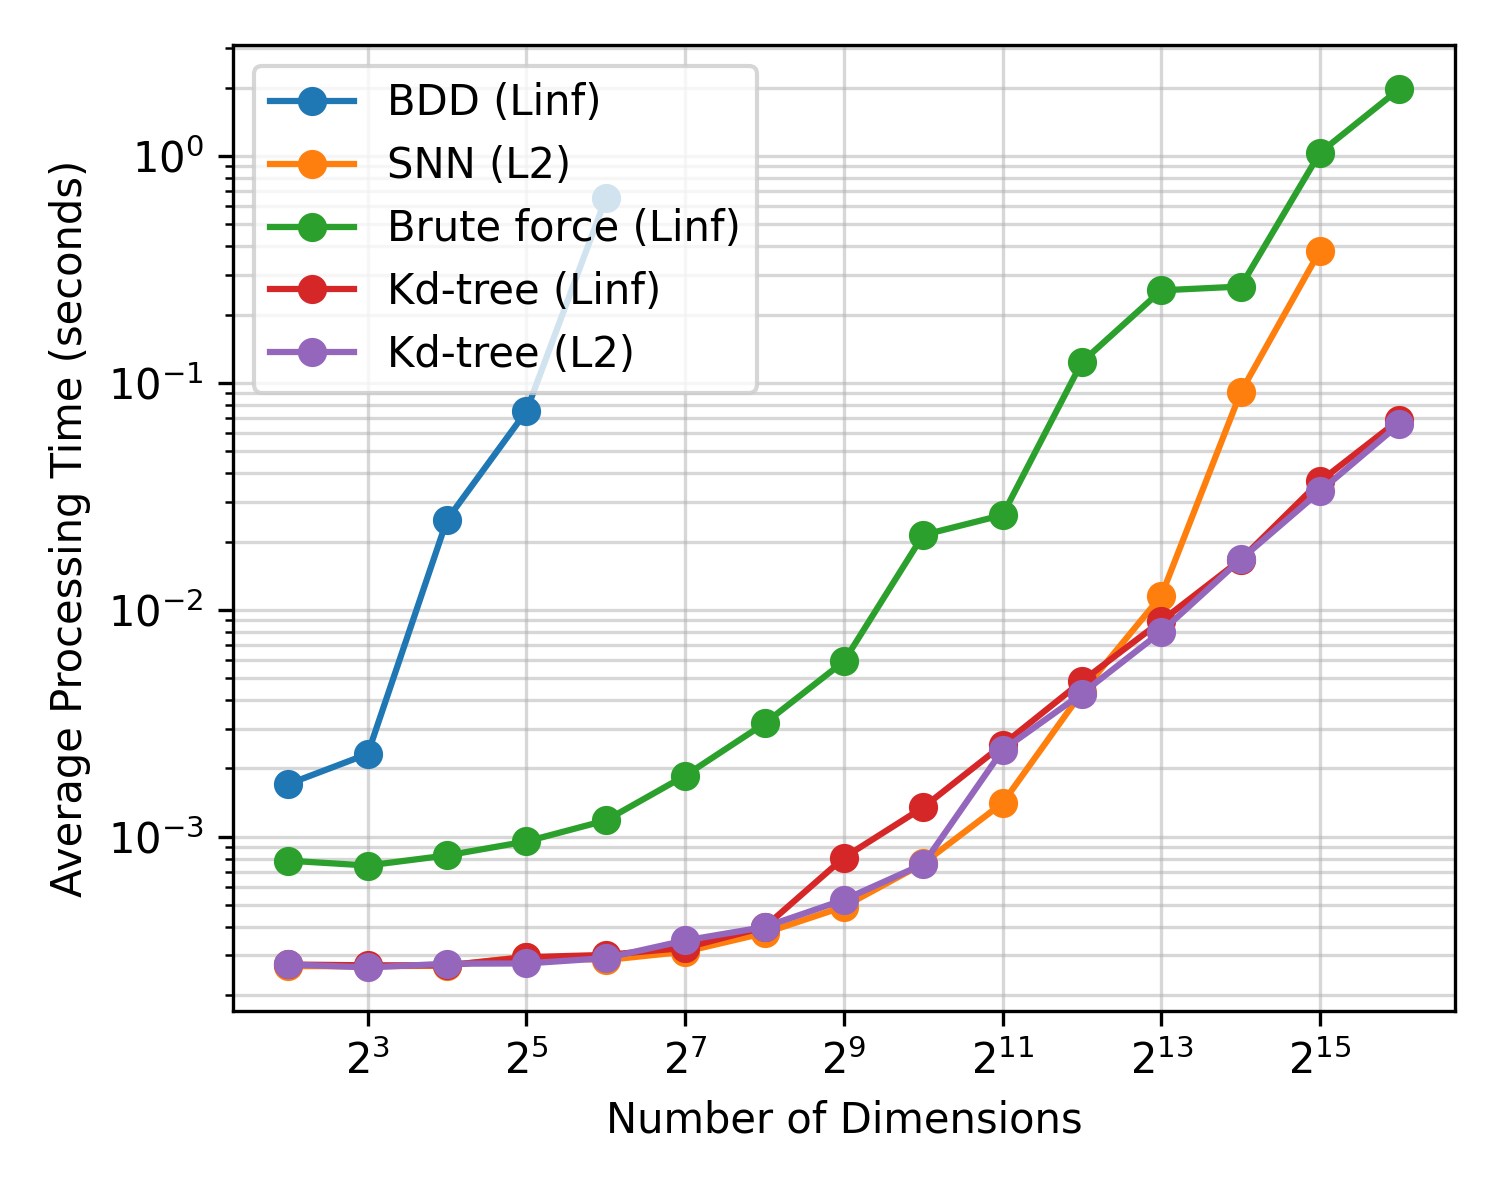
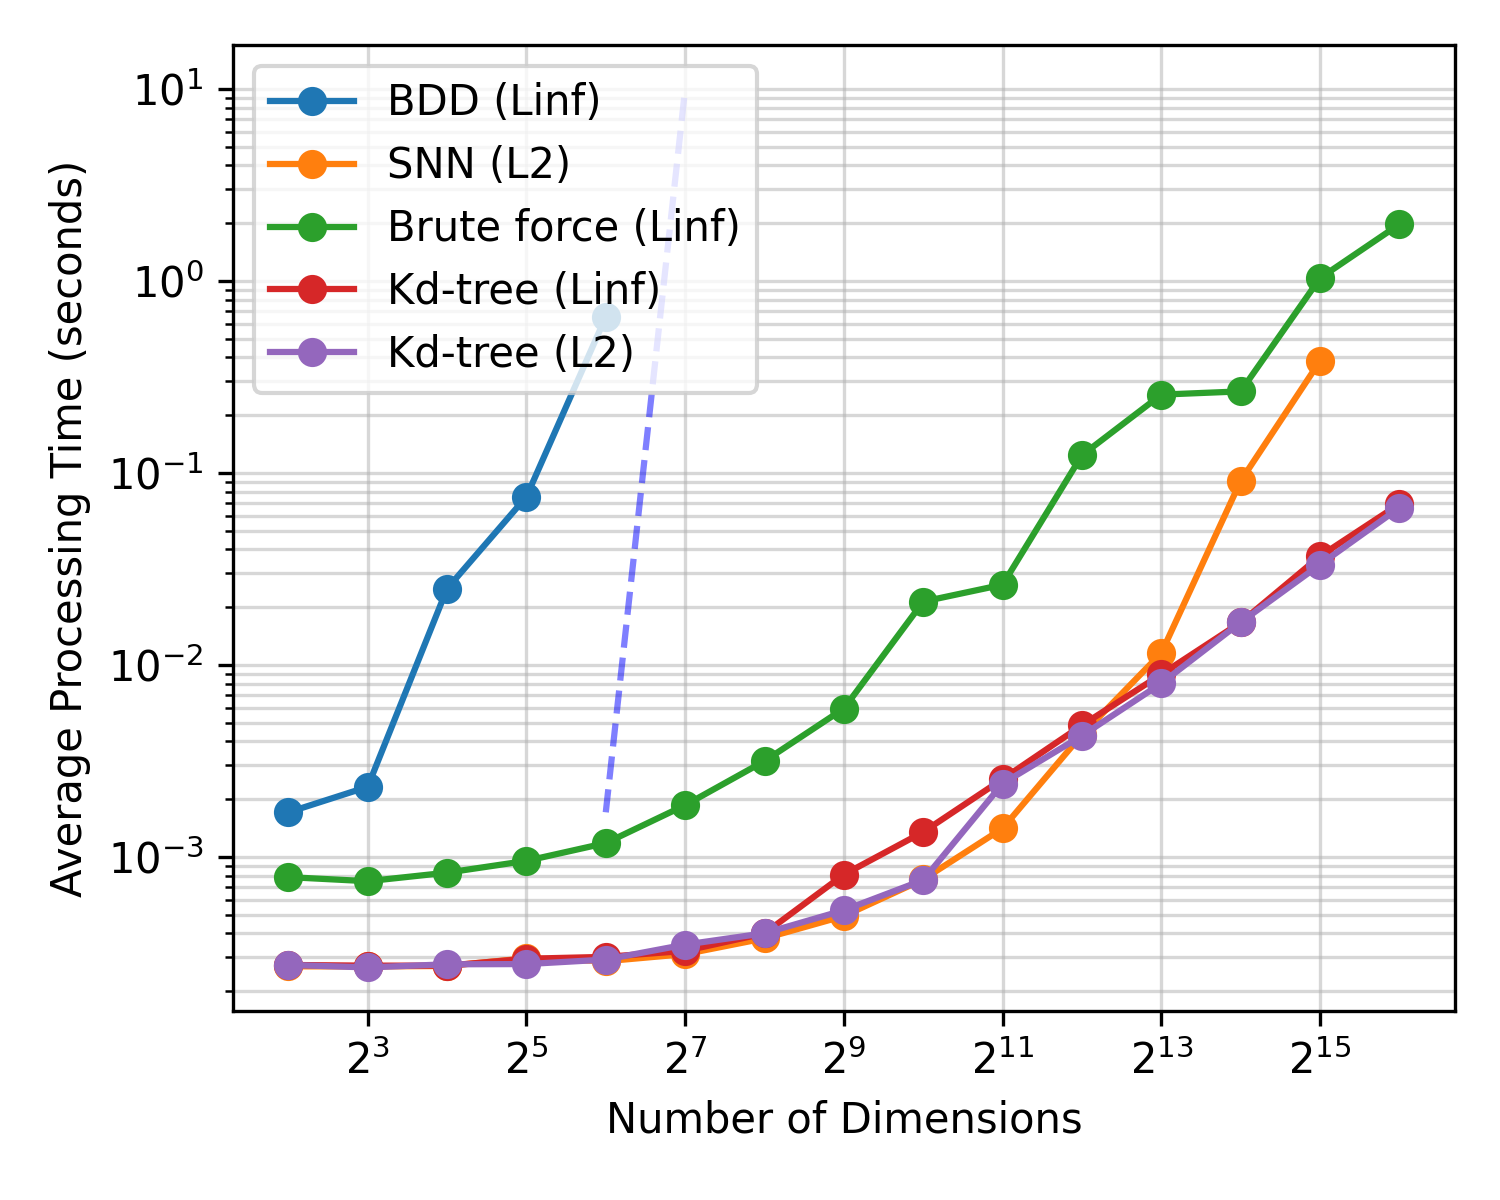
add dashed line to dimcomp?

diff --git a/results/dimcomp/plot.py b/results/dimcomp/plot.py
@@ -46,6 +46,14 @@ for method in methods:
         "bf": "Brute force (Linf)",
     }
     plt.plot(dimensions, avg_times, marker='o', label=method_displaynames[method])
+    if method == 'bdd':
+        last_y_bdd = avg_times[np.where(method == "bdd")[0]][-1]
+        plt.plot([2**6, 2**7], [last_y_bdd, 10], 
+                 color='blue', linestyle='--', alpha=0.5)
+    if method == 'snn':
+        last_y_snn = avg_times[np.where(method == "l2-snn")[0]][-1]
+        plt.plot([2**15, 2**16], [last_y_snn, 10], 
+                 color='orange', linestyle='--', alpha=0.5)
 
 plt.xscale('log', base=2)
 plt.yscale('log')
@@ -53,6 +61,9 @@ plt.xlabel('Number of Dimensions')
 plt.ylabel('Average Processing Time (seconds)')
 #plt.title('Processing Time vs Dimensions by Method')
 plt.grid(True, which="both", ls="-", alpha=0.5)
+
+
+
 plt.legend()
 plt.tight_layout()
 plt.savefig('dimensions.png', dpi=300)
